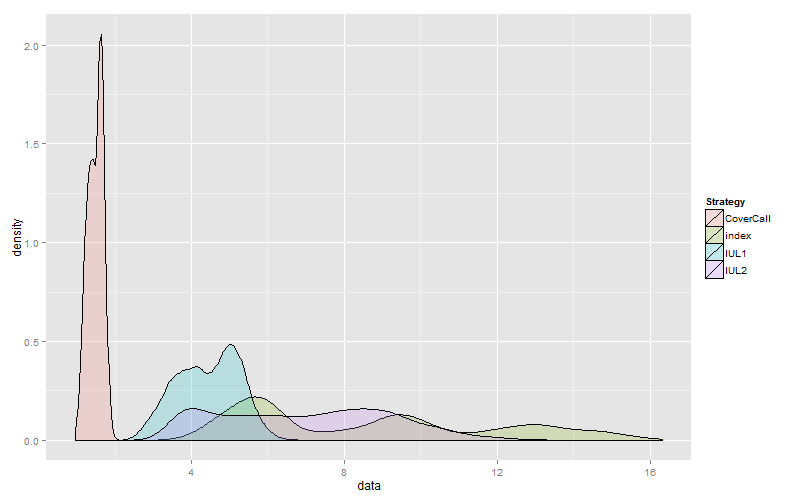
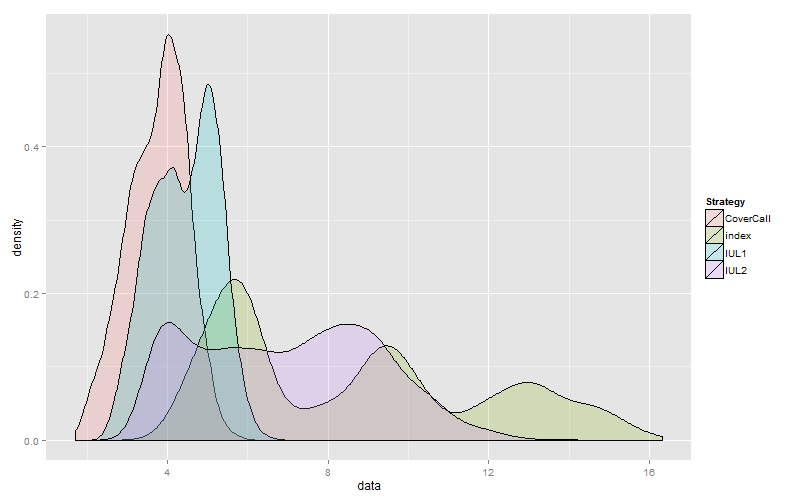
Update 2016-09-29-Stock-Investment-and-Life-Insurance.md

diff --git a/_posts/2016-09-29-Stock-Investment-and-Life-Insurance.md b/_posts/2016-09-29-Stock-Investment-and-Life-Insurance.md
@@ -21,7 +21,7 @@ Compare the following strategies:
 4. Strategy 4: a strategy that tries to DIY strategy 2 
 	* Buy S&P 500 Index ETF and buy an ATM put and sell an 11%-OTM call with 1-year maturity and roll the options every year
 	* For simplicity, I assume 1-year interest rate of 1.5%, 1-year dividend yield of 2.46%, 1-year volatility of 15%
-	* The call spread premium is approximated by BS formula: annual cost is 3.41% of S&P 500 notional given the above parameters
+	* The long put-short call premium is approximated by Black-Sholes formula: annual cost is 4.35% of S&P 500 notional given the above parameters
 
 ## Investment Horizon of 10-year
 1950-2016, daily backtesting, 14253 samples 
@@ -36,21 +36,21 @@ Final asset value at the end of investment horizon divided by initial capital
 **Summary Statistics**
 
 | Percentiles |  ETF | IUL1 | IUL2 | CoverCall |
-|------------:|-----:|-----:|-----:|---------------:|
-|          0% | 0.74 | 0.91 | 0.85 |           0.88 |
-|          1% | 0.89 | 1.01 | 0.92 |           0.94 |
-|          5% | 1.07 | 1.10 | 1.00 |           0.99 |
-|         10% | 1.14 | 1.15 | 1.07 |           1.02 |
-|         25% | 1.34 | 1.23 | 1.23 |           1.06 |
-|         50% | 1.69 | 1.32 | 1.47 |           1.11 |
-|         75% | 2.17 | 1.42 | 1.81 |           1.17 |
-|         90% | 2.46 | 1.52 | 2.04 |           1.22 |
-|         95% | 2.82 | 1.58 | 2.16 |           1.26 |
-|         99% | 3.16 | 1.66 | 2.42 |           1.30 |
-|        100% | 3.30 | 1.73 | 2.93 |           1.34 |
-|        Mean | 1.77 | 1.33 | 1.52 |           1.12 |
-|         Vol | 0.54 | 0.14 | 0.37 |           0.08 |
-|      Sharpe | 1.13 | 1.18 | 0.99 |          -0.58 |
+|------------:|-----:|-----:|-----:|----------:|
+|          0% | 0.74 | 0.91 | 0.85 |      0.96 |
+|          1% | 0.89 | 1.01 | 0.92 |      1.05 |
+|          5% | 1.07 | 1.10 | 1.00 |      1.11 |
+|         10% | 1.14 | 1.15 | 1.07 |      1.16 |
+|         25% | 1.34 | 1.23 | 1.23 |      1.22 |
+|         50% | 1.69 | 1.32 | 1.47 |      1.29 |
+|         75% | 2.17 | 1.42 | 1.81 |      1.37 |
+|         90% | 2.46 | 1.52 | 2.04 |      1.46 |
+|         95% | 2.82 | 1.58 | 2.16 |      1.51 |
+|         99% | 3.16 | 1.66 | 2.42 |      1.58 |
+|        100% | 3.30 | 1.73 | 2.93 |      1.64 |
+|        Mean | 1.77 | 1.33 | 1.52 |      1.30 |
+|         Vol | 0.54 | 0.14 | 0.37 |      0.12 |
+|      Sharpe | 1.13 | 1.18 | 0.99 |      1.20 |
 
 **Distributions**
 {% include image.html url="images/Histogram10Year.png" caption="" width="800" height="500" align="right" %}
@@ -64,21 +64,21 @@ Final asset value at the end of investment horizon divided by initial capital
 **Summary Statistics**
 
 | Percentiles |   ETF | IUL1 | IUL2 | CoverCall |
-|------------:|------:|-----:|-----:|----------:|
-|          0% |  1.60 | 1.42 | 1.15 |      0.91 |
-|          1% |  1.71 | 1.61 | 1.40 |      0.97 |
-|          5% |  1.85 | 1.76 | 1.65 |      1.03 |
-|         10% |  1.96 | 1.87 | 1.88 |      1.08 |
-|         25% |  2.30 | 2.12 | 2.49 |      1.17 |
-|         50% |  3.22 | 2.40 | 3.13 |      1.27 |
-|         75% |  4.74 | 2.73 | 3.85 |      1.40 |
-|         90% |  7.13 | 2.97 | 4.84 |      1.49 |
-|         95% |  9.05 | 3.11 | 5.65 |      1.54 |
-|         99% | 10.38 | 3.39 | 6.65 |      1.65 |
-|        100% | 11.20 | 3.69 | 7.84 |      1.76 |
-|        Mean |  3.91 | 2.42 | 3.27 |      1.28 |
-|         Vol |  2.10 | 0.42 | 1.16 |      0.16 |
-|      Sharpe |  1.22 | 2.58 | 1.67 |     -0.42 |
+|-------------|------:|-----:|-----:|----------:|
+|          0% |  1.60 | 1.42 | 1.15 |      1.22 |
+|          1% |  1.71 | 1.61 | 1.40 |      1.33 |
+|          5% |  1.85 | 1.76 | 1.65 |      1.46 |
+|         10% |  1.96 | 1.87 | 1.88 |      1.58 |
+|         25% |  2.30 | 2.12 | 2.49 |      1.78 |
+|         50% |  3.22 | 2.40 | 3.13 |      2.03 |
+|         75% |  4.74 | 2.73 | 3.85 |      2.28 |
+|         90% |  7.13 | 2.97 | 4.84 |      2.53 |
+|         95% |  9.05 | 3.11 | 5.65 |      2.68 |
+|         99% | 10.38 | 3.39 | 6.65 |      2.93 |
+|        100% | 11.20 | 3.69 | 7.84 |      3.22 |
+|        Mean |  3.91 | 2.42 | 3.27 |      2.04 |
+|         Vol |  2.10 | 0.42 | 1.16 |      0.36 |
+|      Sharpe |  1.22 | 2.58 | 1.67 |      1.92 |
 
 **Distributions**
 {% include image.html url="images/Histogram20Year.png" caption="" width="800" height="500" align="right" %}
@@ -94,20 +94,20 @@ Final asset value at the end of investment horizon divided by initial capital
 
 | Percentiles |   ETF | IUL1 |  IUL2 | CoverCall |
 |------------:|------:|-----:|------:|----------:|
-|          0% |  3.92 | 2.39 |  2.96 |      0.97 |
-|          1% |  4.35 | 2.74 |  3.36 |      1.06 |
-|          5% |  4.65 | 3.09 |  3.70 |      1.15 |
-|         10% |  5.10 | 3.34 |  3.97 |      1.21 |
-|         25% |  5.74 | 3.79 |  5.03 |      1.33 |
-|         50% |  8.47 | 4.50 |  7.06 |      1.51 |
-|         75% | 11.27 | 5.08 |  8.77 |      1.65 |
-|         90% | 13.52 | 5.43 |  9.90 |      1.73 |
-|         95% | 14.46 | 5.64 | 10.60 |      1.78 |
-|         99% | 15.40 | 6.03 | 11.85 |      1.87 |
-|        100% | 16.32 | 6.77 | 14.22 |      2.06 |
-|        Mean |  8.65 | 4.43 |  7.00 |      1.49 |
-|         Vol |  3.25 | 0.81 |  2.23 |      0.20 |
-|      Sharpe |  2.18 | 3.55 |  2.44 |     -0.37 |
+|          0% |  3.92 | 2.39 |  2.96 |      1.72 |
+|          1% |  4.35 | 2.74 |  3.36 |      2.02 |
+|          5% |  4.65 | 3.09 |  3.70 |      2.45 |
+|         10% |  5.10 | 3.34 |  3.97 |      2.73 |
+|         25% |  5.74 | 3.79 |  5.03 |      3.23 |
+|         50% |  8.47 | 4.50 |  7.06 |      3.84 |
+|         75% | 11.27 | 5.08 |  8.77 |      4.29 |
+|         90% | 13.52 | 5.43 |  9.90 |      4.64 |
+|         95% | 14.46 | 5.64 | 10.60 |      4.87 |
+|         99% | 15.40 | 6.03 | 11.85 |      5.28 |
+|        100% | 16.32 | 6.77 | 14.22 |      6.07 |
+|        Mean |  8.65 | 4.43 |  7.00 |      3.75 |
+|         Vol |  3.25 | 0.81 |  2.23 |      0.74 |
+|      Sharpe |  2.18 | 3.55 |  2.44 |      2.97 |
 
 **Distributions**
 {% include image.html url="images/Histogram30Year.png" caption="" width="800" height="500" align="right" %}
